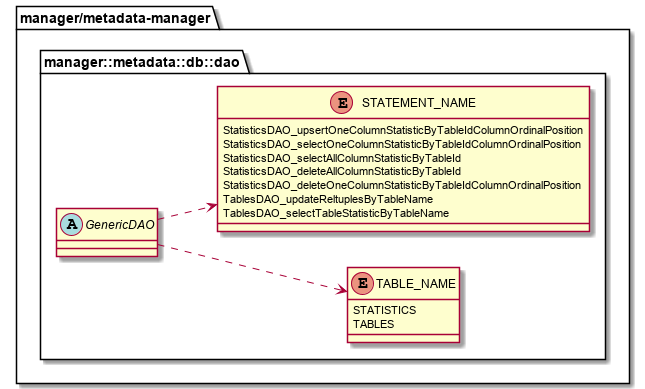
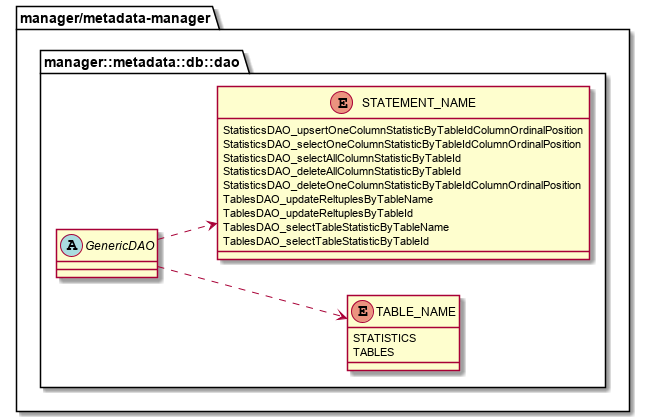
Add API to get/update table statistics

diff --git a/metadata-manager/docs/statistic/02.FD/統計情報管理機能_機能設計書.md b/metadata-manager/docs/statistic/02.FD/統計情報管理機能_機能設計書.md
@@ -9,16 +9,17 @@
   
 ## 目次
 
+<!-- TOC -->
 
-- [metadata-manager 列統計・表統計 管理機能 機能設計](#metadata-manager-列統計表統計-管理機能-機能設計)
+- [metadata-manager 列統計・表統計 管理機能 機能設計](#metadata-manager-列統計・表統計-管理機能-機能設計)
     - [目次](#目次)
     - [用語](#用語)
-    - [列統計・表統計 管理機能 概要](#列統計表統計-管理機能-概要)
+    - [列統計・表統計 管理機能 概要](#列統計・表統計-管理機能-概要)
         - [2021年3月までの開発スコープ](#2021年3月までの開発スコープ)
     - [メタデータ格納先のデータベース設計](#メタデータ格納先のデータベース設計)
         - [概要](#概要)
         - [メタデータ格納先](#メタデータ格納先)
-        - [メタデータ格納先テーブルのデータベース・スキーマ](#メタデータ格納先テーブルのデータベーススキーマ)
+        - [メタデータ格納先テーブルのデータベース・スキーマ](#メタデータ格納先テーブルのデータベース・スキーマ)
             - [理由](#理由)
         - [メタデータ格納先テーブルの権限](#メタデータ格納先テーブルの権限)
         - [V3.0で追加するテーブル](#v30で追加するテーブル)
@@ -49,52 +50,66 @@
             - [引数](#引数-1)
             - [戻り値](#戻り値-1)
             - [条件](#条件-1)
-    - [列統計・表統計管理機能 API](#列統計表統計管理機能-api)
-        - [列統計・表統計 管理機能APIのinputについて](#列統計表統計-管理機能apiのinputについて)
-        - [1カラムの列統計登録・更新（input：テーブルID・カラム番号）](#1カラムの列統計登録更新inputテーブルidカラム番号)
+    - [列統計・表統計管理機能 API](#列統計・表統計管理機能-api)
+        - [列統計・表統計 管理機能APIのinputについて](#列統計・表統計-管理機能apiのinputについて)
+        - [1カラムの列統計登録・更新（input：テーブルID・カラム番号）](#1カラムの列統計登録・更新inputテーブルid・カラム番号)
             - [処理概要](#処理概要-2)
             - [引数](#引数-2)
             - [戻り値](#戻り値-2)
             - [条件](#条件-2)
             - [処理詳細](#処理詳細)
-        - [1テーブルの表統計登録・更新（input：テーブル名・行数、output：テーブルID）](#1テーブルの表統計登録更新inputテーブル名行数outputテーブルid)
+        - [1テーブルの表統計登録・更新（input：テーブルID・行数）](#1テーブルの表統計登録・更新inputテーブルid・行数)
             - [処理概要](#処理概要-3)
             - [引数](#引数-3)
             - [戻り値](#戻り値-3)
             - [条件](#条件-3)
             - [処理詳細](#処理詳細-1)
-        - [1テーブルの全列統計参照（input：テーブルID）](#1テーブルの全列統計参照inputテーブルid)
+        - [1テーブルの表統計登録・更新（input：テーブル名・行数、output：テーブルID）](#1テーブルの表統計登録・更新inputテーブル名・行数outputテーブルid)
             - [処理概要](#処理概要-4)
             - [引数](#引数-4)
             - [戻り値](#戻り値-4)
             - [条件](#条件-4)
             - [処理詳細](#処理詳細-2)
-        - [1カラムの列統計参照（input：テーブルID・カラム番号）](#1カラムの列統計参照inputテーブルidカラム番号)
+        - [1テーブルの全列統計参照（input：テーブルID）](#1テーブルの全列統計参照inputテーブルid)
             - [処理概要](#処理概要-5)
             - [引数](#引数-5)
             - [戻り値](#戻り値-5)
             - [条件](#条件-5)
             - [処理詳細](#処理詳細-3)
-        - [1テーブルの表統計参照（input：テーブル名、output：テーブルID・行数）](#1テーブルの表統計参照inputテーブル名outputテーブルid行数)
+        - [1カラムの列統計参照（input：テーブルID・カラム番号）](#1カラムの列統計参照inputテーブルid・カラム番号)
             - [処理概要](#処理概要-6)
             - [引数](#引数-6)
             - [戻り値](#戻り値-6)
             - [条件](#条件-6)
             - [処理詳細](#処理詳細-4)
-        - [1テーブルの全列統計削除（input：テーブルID）](#1テーブルの全列統計削除inputテーブルid)
+        - [1テーブルの表統計参照（input：テーブルID）](#1テーブルの表統計参照inputテーブルid)
             - [処理概要](#処理概要-7)
             - [引数](#引数-7)
             - [戻り値](#戻り値-7)
             - [条件](#条件-7)
             - [処理詳細](#処理詳細-5)
-        - [1カラムの列統計削除（input：テーブルID・カラム番号）](#1カラムの列統計削除inputテーブルidカラム番号)
+        - [1テーブルの表統計参照（input：テーブル名、output：テーブルID・行数）](#1テーブルの表統計参照inputテーブル名outputテーブルid・行数)
             - [処理概要](#処理概要-8)
             - [引数](#引数-8)
             - [戻り値](#戻り値-8)
             - [条件](#条件-8)
             - [処理詳細](#処理詳細-6)
+        - [1テーブルの全列統計削除（input：テーブルID）](#1テーブルの全列統計削除inputテーブルid)
+            - [処理概要](#処理概要-9)
+            - [引数](#引数-9)
+            - [戻り値](#戻り値-9)
+            - [条件](#条件-9)
+            - [処理詳細](#処理詳細-7)
+        - [1カラムの列統計削除（input：テーブルID・カラム番号）](#1カラムの列統計削除inputテーブルid・カラム番号)
+            - [処理概要](#処理概要-10)
+            - [引数](#引数-10)
+            - [戻り値](#戻り値-10)
+            - [条件](#条件-10)
+            - [処理詳細](#処理詳細-8)
     - [エラーコード一覧](#エラーコード一覧)
     - [ログ](#ログ)
+
+<!-- /TOC -->
 
 ## 用語
 
@@ -114,12 +129,14 @@
   * 列統計登録・更新
     * 1カラムの列統計登録・更新（input：テーブルID・カラム番号）
   * 表統計登録・更新
-    * 1テーブルの表統計登録・更新（input：テーブル名・行数、output：テーブルID）
+    * 1テーブルの表統計登録・更新（input：テーブルID・行数）
+    * 1テーブルの表統計登録・更新（input：テーブル名・行数、output：テーブルID）★開発スコープ外：時間があれば開発する。
   * 列統計参照
     * 1カラムの列統計参照（input：テーブルID・カラム番号）
     * 1テーブルの全列統計参照（input：テーブルID）★開発スコープ外：時間があれば開発する。
   * 表統計参照
-    * 1テーブルの表統計参照（input：テーブル名、output：テーブルID・行数）
+    * 1テーブルの表統計参照（input：テーブルID）
+    * 1テーブルの表統計参照（input：テーブル名、output：テーブルID・行数）★開発スコープ外：時間があれば開発する。
   * 列統計削除
     * 1カラムの列統計削除（input：テーブルID・カラム番号）
     * 1テーブルの全列統計削除（input：テーブルID）★開発スコープ外：時間があれば開発する。
@@ -653,7 +670,70 @@
    1. メタデータ格納先は、rollback処理を行い、Transactionを終了する。
    2. metadata-managerは、戻り値にErrorCode::UPSERT_FAILUREを設定し、処理を終了する。
 
+### 1テーブルの表統計登録・更新（input：テーブルID・行数）
 
+#### 処理概要
+
+* metadata-managerは、メタデータ格納先に対して、**1テーブル単位の表統計**を登録・更新する。
+
+* 登録・更新の単位を、1テーブル単位の表統計としている理由
+  * PostgreSQLの次のソースコードを参考にした。
+    * postgresql-12.3/src/backend/commands/vacuum.c
+      * PostgreSQLの場合、表統計登録・更新APIは、引数としてテーブルIDを含むRelation構造体・行数num_tuplesが指定される。
+      
+        ```C
+        /*
+         *	vac_update_relstats() -- update statistics for one relation
+        （略）
+         */
+        void
+        vac_update_relstats(Relation relation,
+                            BlockNumber num_pages, double num_tuples,
+                            BlockNumber num_all_visible_pages,
+                            bool hasindex, TransactionId frozenxid,
+                            MultiXactId minmulti,
+                            bool in_outer_xact)
+        {
+        Oid			relid = RelationGetRelid(relation);
+        ```
+
+#### 引数
+
+| プロパティ名<br />（論理名） | プロパティ名<br />（物理名） | 型               | 型の備考 | IN/OUT | 省略指定 | 値の範囲 |
+| ---------------------------- | ---------------------------- | ---------------- | -------- | ------ | -------- | -------- |
+| テーブルID                   | table_id                   | int64_t |          | IN     | 省略不可 | 1桁以上  |
+| 行数                         | reltuples                    | float         |          | IN     | 省略不可 | 型の範囲 |
+
+#### 戻り値
+
+| プロパティ名（論理名） | 型        | 値の範囲                                                     |
+| ---------------------- | --------- | ------------------------------------------------------------ |
+| エラーコード           | ErrorCode | ErrorCode::OK：正常<br />ErrorCode::INVALID_PARAMETER：引数に不正なパラメーターが入力された<br/>ErrorCode::UPDATE_FAILURE：UPDATEのSQL文の発行に失敗<br/>ErrorCode::BEGIN_TRANSACTION_FAILURE：トランザクションの開始に失敗<br/>ErrorCode::COMMIT_FAILURE：コミット失敗<br/>ErrorCode::ROLLBACK_FAILURE：ロールバック失敗|
+
+#### 条件
+
+* 事前条件
+
+  * 引数に、テーブルID、行数が指定されている。
+* 事後条件
+
+  * 戻り値として、ErrorCodeを返す。
+
+
+
+#### 処理詳細
+
+1. metadata-managerは、事前条件に基づき、引数の入力規則チェックを実施する。
+2. メタデータ格納先はTransactionを開始する。
+3. metadata-managerは、引数table_id、reltuplesを基に、Tableメタデータテーブル【tsurugi_class】の列reltuplesを更新する。
+4. 3.でレコードの登録・更新に成功した場合
+   1. メタデータ格納先は、commit処理を行い、Transactionを終了する。
+   2. metadata-managerは、戻り値にErrorCode::OKを設定し、処理を終了する。
+5. 3.でレコードの登録・更新に失敗した場合
+   
+   1. メタデータ格納先は、rollback処理を行い、Transactionを終了する。
+   
+   2. metadata-managerは、戻り値にErrorCode::UPDATE_FAILUREを設定し、処理を終了する。
 
 ### 1テーブルの表統計登録・更新（input：テーブル名・行数、output：テーブルID）
 
@@ -843,6 +923,48 @@
    * それ以外の場合
      
      * metadata-managerは、戻り値にErrorCode::SELECT_FAILUREを設定し、処理を終了する。
+
+
+### 1テーブルの表統計参照（input：テーブルID）
+
+#### 処理概要
+
+* metadata-managerは、メタデータ格納先から、1テーブルに紐づく表統計と、Tableメタデータ全項目の値を取得する。
+
+#### 引数
+
+| プロパティ名（論理名）      | プロパティ名（物理名） | 型                 | 型の備考     | IN/OUT | 省略指定 | 値の範囲 |
+| --------------------------- | ---------------------- | ------------------ | ------------ | ------ | -------- | -------- |
+| テーブルID                  | table_id             | int64_t   |              | IN     | 省略不可 | 1桁以上  |
+| 1テーブルに紐づく表統計と、Tableメタデータ全項目の値 | table_statistic | TableStatistic&             | **参照渡し** | OUT    | 省略不可 | 型の範囲 |
+
+#### 戻り値
+
+| プロパティ名（論理名） | 型        | 値の範囲                                                     |
+| ---------------------- | --------- | ------------------------------------------------------------ |
+| エラーコード           | ErrorCode | ErrorCode::OK：正常<br />ErrorCode::INVALID_PARAMETER：引数に不正なパラメーターが入力された<br/>ErrorCode::SELECT_FAILURE：SELECTのSQL文の発行に失敗 |
+
+#### 条件
+
+* 事前条件
+
+  * 引数に、テーブルIDが指定されている。
+
+* 事後条件
+  * 戻り値として、ErrorCodeを返す。
+  * ErrorCode::OKの場合
+    * table_statisticに、1テーブルに紐づく表統計と、Tableメタデータ全項目の値が格納される。
+
+#### 処理詳細
+
+1. metadata-managerは、事前条件に基づき、引数の入力規則チェックを実施する。
+2. metadata-managerは、メタデータ格納先のTableメタデータテーブル【tsurugi_class】から、テーブルIDが引数table_idに一致するレコードを取得する。
+   * 一致するレコードの取得に成功した場合
+     * metadata-managerは、引数table_statisticに、取得したレコードを設定し、処理を終了する。
+   * それ以外の場合
+     * metadata-managerは、戻り値にErrorCode::SELECT_FAILUREを設定し、処理を終了する。
+
+
 
 ### 1テーブルの表統計参照（input：テーブル名、output：テーブルID・行数）
 

diff --git a/metadata-manager/docs/statistic/02.FD/統計情報管理機能_API_usage.md b/metadata-manager/docs/statistic/02.FD/統計情報管理機能_API_usage.md
@@ -6,8 +6,9 @@
 
 ## 目次
 
+<!-- TOC -->
 
-- [列統計・表統計 管理機能 API usage](#列統計表統計-管理機能-api-usage)
+- [列統計・表統計 管理機能 API usage](#列統計・表統計-管理機能-api-usage)
     - [目次](#目次)
     - [クラス図](#クラス図)
         - [メタデータ格納先とのコネクション](#メタデータ格納先とのコネクション)
@@ -21,10 +22,10 @@
         - [TableStatistic](#tablestatistic)
             - [説明](#説明-2)
             - [field](#field-1)
-        - [列統計・表統計の受け渡しに、ptree型を利用しない理由](#列統計表統計の受け渡しにptree型を利用しない理由)
-    - [列統計・表統計管理機能 API実行例](#列統計表統計管理機能-api実行例)
+        - [列統計・表統計の受け渡しに、ptree型を利用しない理由](#列統計・表統計の受け渡しにptree型を利用しない理由)
+    - [列統計・表統計管理機能 API実行例](#列統計・表統計管理機能-api実行例)
 
-
+<!-- /TOC -->
 
 ## クラス図
 
@@ -65,9 +66,11 @@
 | ----------- | ------------------------------------------------------------ |
 |connect()|親クラスのメソッドをオーバーライドして実装を行う。<br />実装内容は、親クラスのメソッドの説明を参照。|
 | addOneColumnStatistic| 1カラムの列統計登録・更新（input：テーブルID・カラム番号） |
+| addTableStatistic | 1テーブルの表統計登録・更新（input：テーブルID・行数）|
 | addTableStatistic | 1テーブルの表統計登録・更新（input：テーブル名・行数、output：テーブルID）|
 | getOneColumnStatistic | 1カラムの列統計参照（input：テーブルID・カラム番号） |
 | getAllColumnStatistics | 1テーブルの全列統計参照（input：テーブルID） |
+| getTableStatistic       | 1テーブルの表統計参照（input：テーブルID）|
 | getTableStatistic       | 1テーブルの表統計参照（input：テーブル名、output：テーブルID・行数）|
 | removeOneColumnStatistic | 1カラムの列統計削除（input：テーブルID・カラム番号）|
 | removeAllColumnStatistics | 1テーブルの全列統計削除（input：テーブルID）|
@@ -159,6 +162,20 @@
 
 * 表統計の登録・更新
   *  1テーブルの表統計の登録・更新
+  
+    ```C++
+    int64_t table_id = 1;
+    float reltuples = 1000;
+    
+    std::unique_ptr<Metadata> stats(new Statistics(TEST_DB));
+    
+    //metadata-managerは、メタデータ格納先に対して、テーブルIDに紐づく表統計を登録・更新する。
+    if (ErrorCode::OK != stats->addTableStatistic(table_id, reltuples))
+    {
+    	// error handling
+    }
+    ```
+    
     ```C++
     std::string table_name = "table_name";
     int64_t table_id;
@@ -225,6 +242,24 @@
 
   * 1テーブルの表統計参照
 
+    ```C++
+    int64_t table_id = 1;
+
+    TableStatistic table_statistic;
+  
+    std::unique_ptr<Metadata> stats(new Statistics(TEST_DB));
+  
+    //metadata-managerは、メタデータ格納先から、テーブルIDに関する表統計・テーブルメタデータを取得する。
+    if (ErrorCode::OK == stats->getTableStatistic(table_id, table_statistic))
+    {
+      // 行数を取得
+      cout << table_statistic.reltuples << endl;
+    }
+    else{
+      // error handling
+    }
+    ```
+    
     ```C++
     std::string table_name = "table_name";
 

diff --git a/metadata-manager/docs/statistic/02.FD/統計情報管理機能_詳細設計書.md b/metadata-manager/docs/statistic/02.FD/統計情報管理機能_詳細設計書.md
@@ -209,6 +209,9 @@ DialectStrategy::getInstance()->StatisticsDAO_upsertOneColumnStatisticByTableIdC
 #### 1カラムの列統計登録・更新（input：テーブルID・カラム番号）
 ![](./out/uml/SequenceDiagram_detail/1カラムの列統計登録・更新（input：テーブルID・カラム番号）.png)
 
+#### 1テーブルの表統計登録・更新（input：テーブルID）
+![](./out/uml/SequenceDiagram_detail/1テーブルの表統計参照（input：テーブルID）.png)
+
 #### 1テーブルの表統計登録・更新（input：テーブル名・行数、output：テーブルID）
 ![](./out/uml/SequenceDiagram_detail/1テーブルの表統計登録・更新（input：テーブル名・行数、output：テーブルID）.png)
 
@@ -218,6 +221,9 @@ DialectStrategy::getInstance()->StatisticsDAO_upsertOneColumnStatisticByTableIdC
 
 #### 1カラムの列統計参照（input：テーブルID・カラム番号）
 ![](./out/uml/SequenceDiagram_detail/1カラムの列統計参照（input：テーブルID・カラム番号）.png)
+
+#### 1テーブルの表統計参照（input：テーブルID）
+![](./out/uml/SequenceDiagram_detail/1テーブルの表統計参照（input：テーブルID）.png)
 
 #### 1テーブルの表統計参照（input：テーブル名、output：テーブルID・行数）
 ![](./out/uml/SequenceDiagram_detail/1テーブルの表統計参照（input：テーブル名、output：テーブルID・行数）.png)
